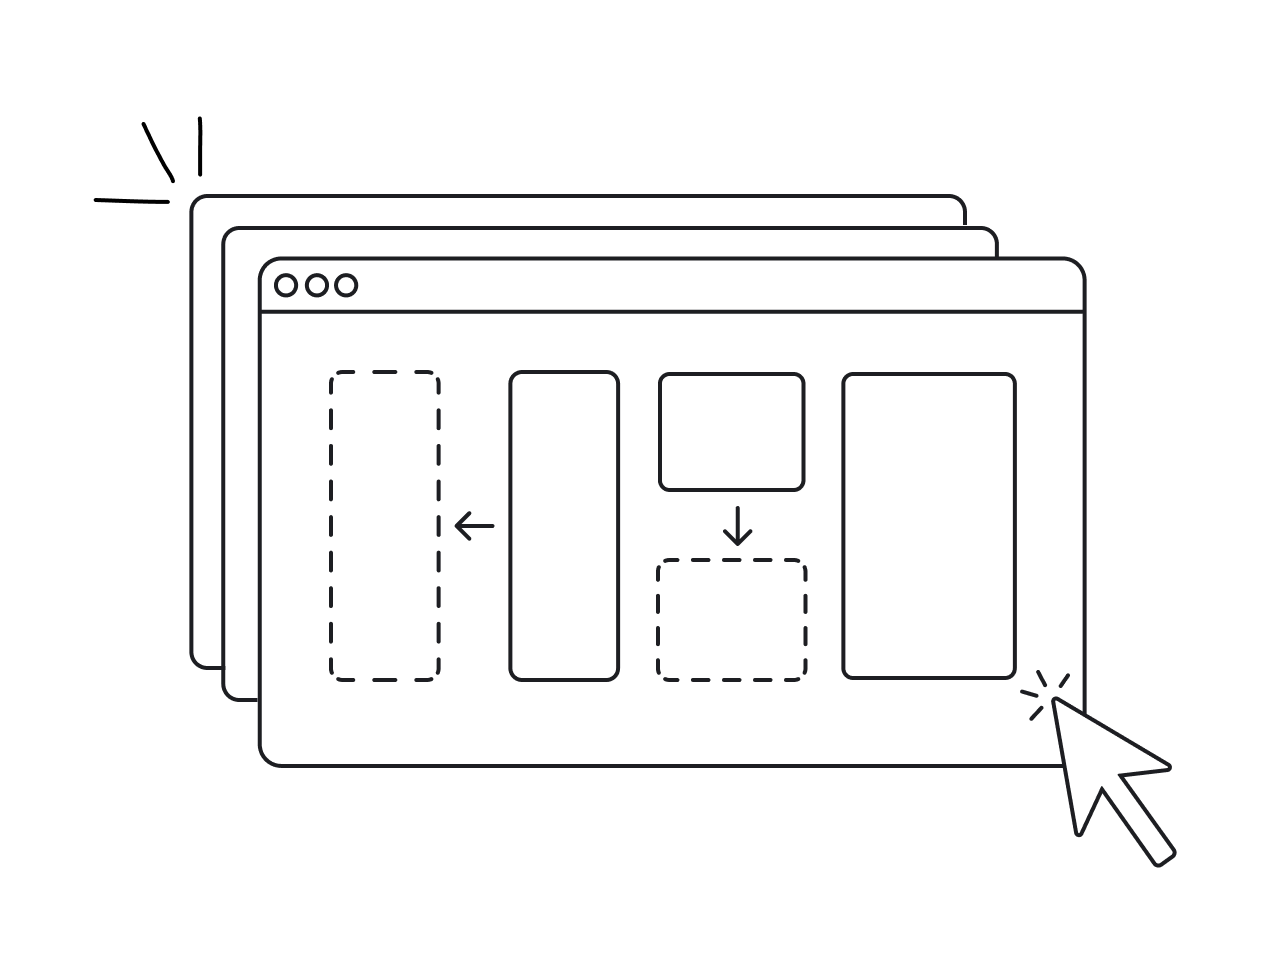
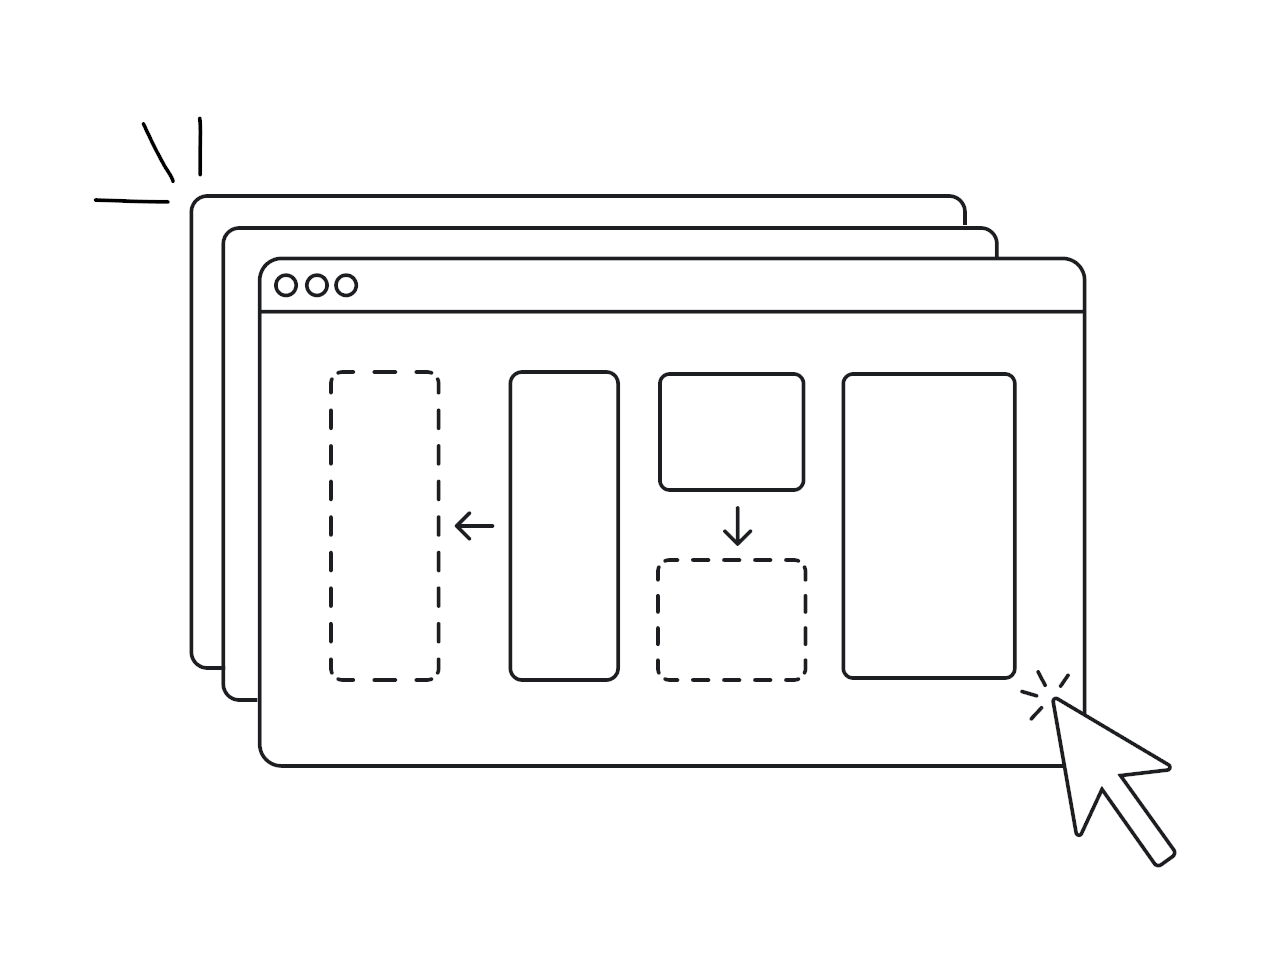
update typo and image color

Changed region(s): [[0.2188, 0.2812, 0.2812, 0.3125]]

diff --git a/src/components/projectsSection.tsx b/src/components/projectsSection.tsx
@@ -11,7 +11,7 @@ import { ExternalLink } from 'lucide-react'
 const projects = [
     {
         id: 8,
-        titlle: "Bellini",
+        title: "Bellini",
         description: "As a Front-End Developer, I contributed to the ongoing development and enhancement of the platform by implementing new user-facing features, troubleshooting and resolving application issues, and improving the overall user experience. I collaborated closely with cross-functional team members throughout the development lifecycle to ensure new functionality met quality standards and business requirements. My work also included validating feature functionality, supporting application stability, and contributing to the continuous improvement of the product.",
         image: DnDIllustration,
         tags: [],